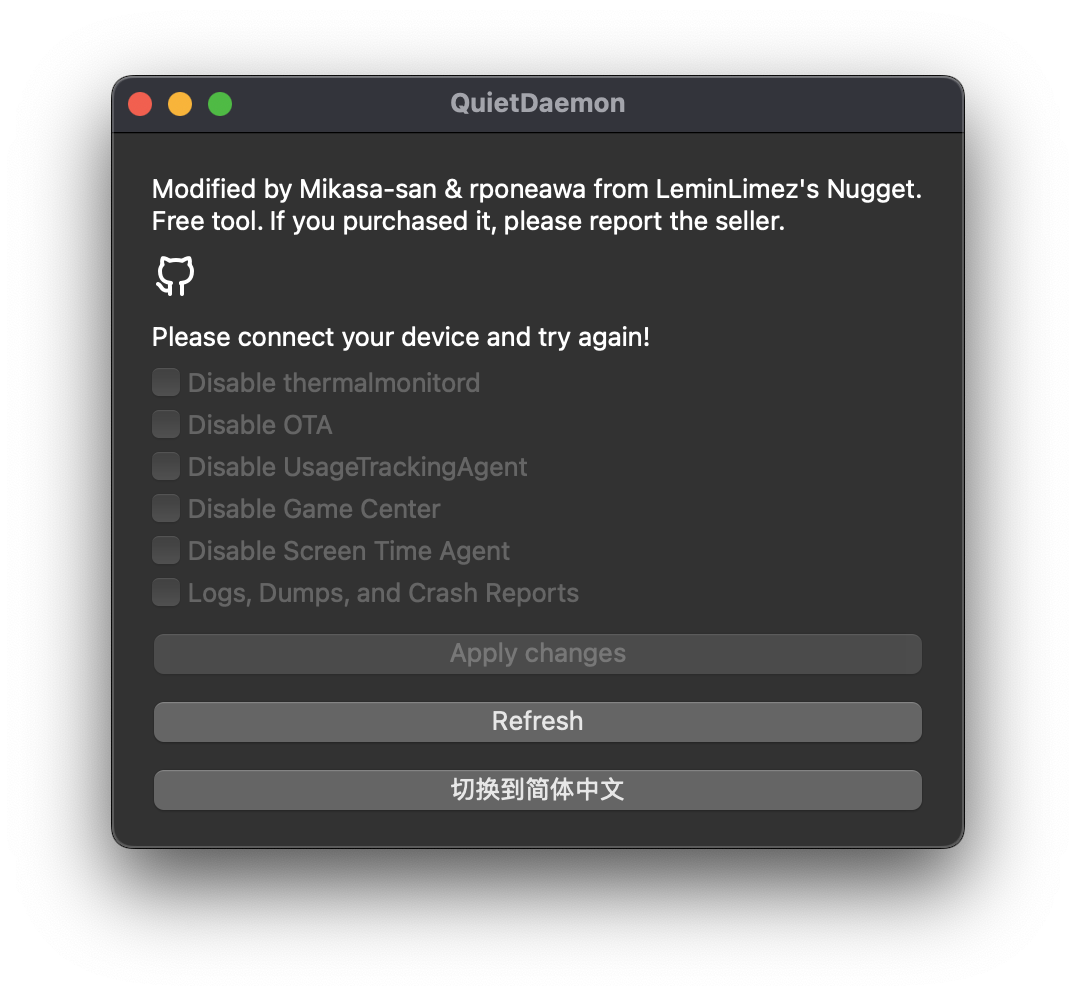
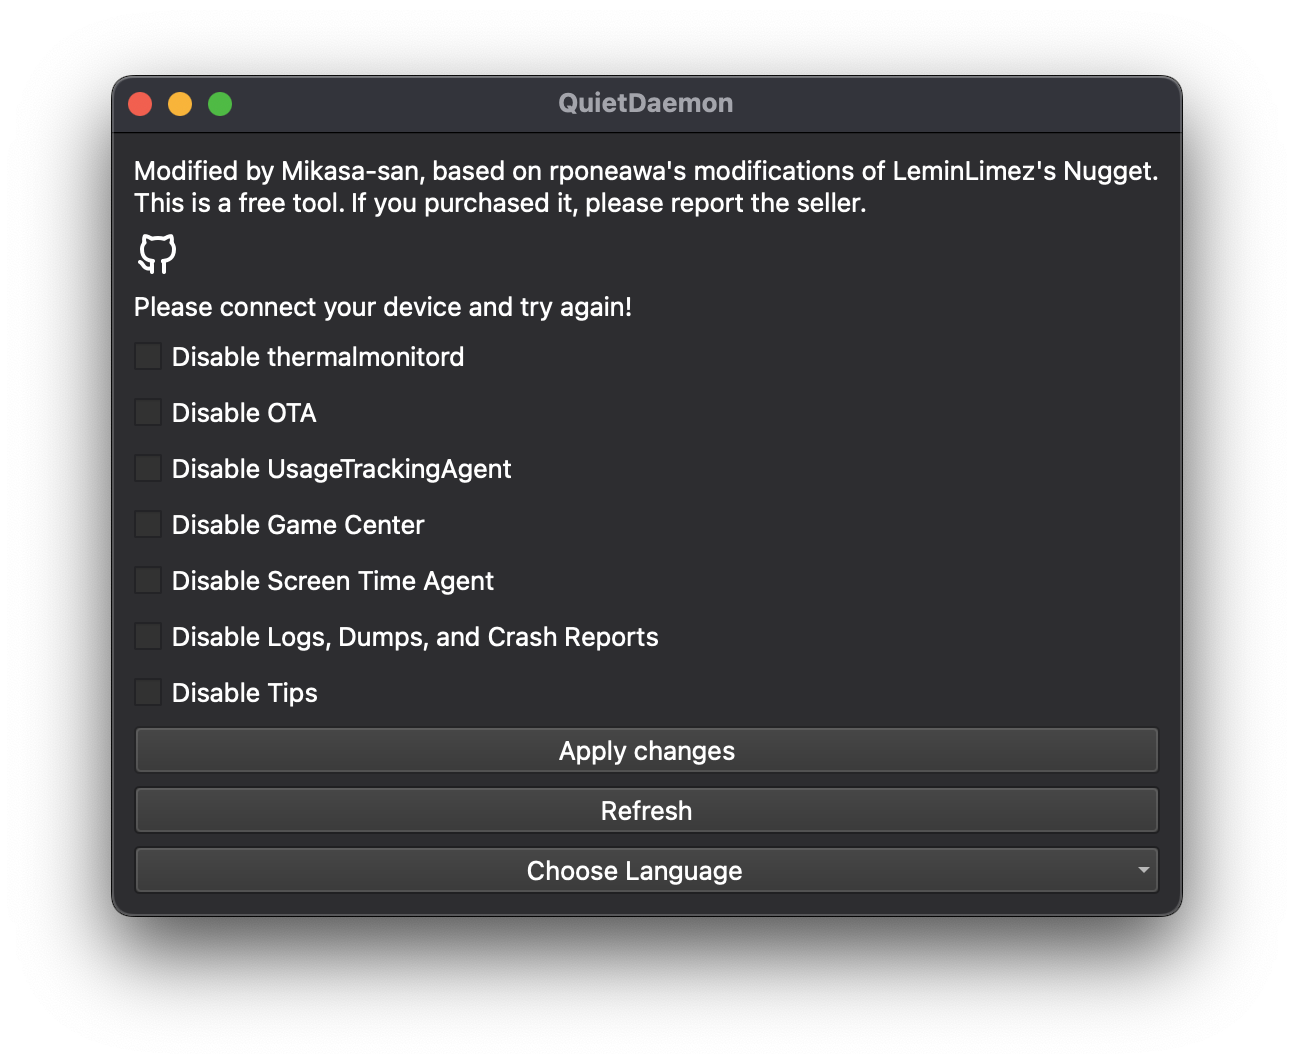
Update 1.0.1

Changed region(s): [[0.0613, 0.0622, 0.9507, 0.9026]]

diff --git a/gui_app.py b/gui_app.py
@@ -5,20 +5,32 @@ import traceback
 from PyQt5 import QtWidgets, QtCore, QtGui
 from PyQt5.QtSvg import QSvgWidget
 from PyQt5.QtCore import QLocale
+from PyQt5.QtGui import QPalette, QColor
 from pymobiledevice3 import usbmux
+from PyQt5.QtWidgets import QApplication
 from pymobiledevice3.lockdown import create_using_usbmux
 
 import resources_rc
 from Sparserestore.restore import restore_files, FileToRestore
 from devicemanagement.constants import Device
 
+palette = QPalette()
+palette.setColor(QPalette.Window, QColor(45, 45, 48))
+palette.setColor(QPalette.WindowText, QColor(255, 255, 255))
+
 class App(QtWidgets.QWidget):
     def __init__(self):
         super().__init__()
         self.device = None
 
+        # Detect system language
         locale = QLocale.system().name()
-        self.language = "zh" if locale.startswith("zh") else "jp" if locale.startswith("ja") else "en"
+        if locale.startswith("ja"):
+            self.language = "ja"
+        elif locale.startswith("zh"):
+            self.language = "zh"
+        else:
+            self.language = "en"
 
         self.thermalmonitord = False
         self.disable_ota = False
@@ -27,86 +39,114 @@ class App(QtWidgets.QWidget):
         self.disable_gamed = False
         self.disable_screentime = False
         self.disable_reportcrash = False
+        self.disable_tipsd = False
 
         self.language_pack = {
-            "en": {
-                "title": "QuietDaemon",
-                "modified_by": "Modified by Mikasa-san & rponeawa from LeminLimez's Nugget.\nFree tool. If you purchased it, please report the seller.",
-                "backup_warning": "Please back up your device before using!",
-                "connect_prompt": "Please connect your device and try again!",
-                "connected": "Connected to",
-                "ios_version": "iOS",
-                "apply_changes": "Applying changes to disabled.plist...",
-                "applying_changes": "Applying changes...",
-                "success": "Changes applied successfully!",
-                "error": "An error occurred while applying changes to disabled.plist:",
-                "error_connecting": "Error connecting to device",
-                "goodbye": "Goodbye!",
-                "input_prompt": "Enter a number: ",
-                "menu_options": [
-                    "Disable thermalmonitord",
-                    "Disable OTA",
-                    "Disable UsageTrackingAgent",
-                    "Disable Game Center",
-                    "Disable Screen Time Agent",
-                    "Logs, Dumps, and Crash Reports",
-                    "Apply changes",
-                    "Refresh",
-                    "切换到简体中文"
-                ]
-            },
-            "zh": {
-                "title": "温控禁用工具",
-                "modified_by": "由 Mikasa-san 和 rponeawa 基于 LeminLimez 的 Nugget 修改。\n免费工具，若您是购买而来，请举报卖家。",
-                "backup_warning": "使用前请备份您的设备！",
-                "connect_prompt": "请连接设备并重试！",
-                "connected": "已连接到",
-                "ios_version": "iOS",
-                "apply_changes": "正在应用更改到 disabled.plist...",
-                "applying_changes": "正在应用修改...",
-                "success": "更改已成功应用！",
-                "error": "应用更改时发生错误：",
-                "error_connecting": "连接设备时发生错误",
-                "goodbye": "再见！",
-                "input_prompt": "请输入选项: ",
-                "menu_options": [
-                    "禁用温控",
-                    "禁用系统更新",
-                    "禁用使用情况日志",
-                    "禁用游戏守护进程",
-                    "禁用屏幕时间",
-                    "日志、转储和崩溃报告",
-                    "应用更改",
-                    "刷新",
-                    "日本語に切り替え"
-                ]
-            },
-            "jp": {
-                "title": "QuietDaemon",
-                "modified_by": "Mikasa-san と rponeawa によって LeminLimez の Nugget から修正されました。\n無料ツールです。購入した場合は、販売者に報告してください。",
-                "backup_warning": "使用する前にデバイスをバックアップしてください！",
-                "connect_prompt": "デバイスを接続して再試行してください！",
-                "connected": "接続先",
-                "ios_version": "iOS",
-                "apply_changes": "disabled.plist に変更を適用しています...",
-                "applying_changes": "変更を適用中...",
-                "success": "変更が正常に適用されました！",
-                "error": "disabled.plist への変更の適用中にエラーが発生しました：",
-                "error_connecting": "デバイスへの接続中にエラーが発生しました",
-                "goodbye": "さようなら！",
-                "input_prompt": "番号を入力してください：",
-                "menu_options": [
-                "thermalmonitord を無効にする",
-                "OTA を無効にする",
-                "UsageTrackingAgent を無効にする",
-                "Game Center を無効にする",
-                "Screen Time Agent を無効にする",
-                "ログ、ダンプ、およびクラッシュレポート",
-                "変更を適用する",
-                "更新する",
-                "Switch to English"
-                ]
-            }
+                "en": {
+                        "title": "QuietDaemon",
+                        "modified_by": "Modified by Mikasa-san, based on rponeawa's modifications of LeminLimez's Nugget.\nThis is a free tool. If you purchased it, please report the seller.",
+                        "backup_warning": "Please back up your device before using!",
+                        "connect_prompt": "Please connect your device and try again!",
+                        "connected": "Connected to",
+                        "ios_version": "iOS",
+                        "apply_changes": "Applying changes to disabled.plist...",
+                        "applying_changes": "Applying changes...",
+                        "success": "Changes applied successfully!",
+                        "error": "An error occurred while applying changes to disabled.plist:",
+                        "error_connecting": "Error connecting to device",
+                        "goodbye": "Goodbye!",
+                        "menu_options": [
+                                "Disable thermalmonitord",
+                                "Disable OTA",
+                                "Disable UsageTrackingAgent",
+                                "Disable Game Center",
+                                "Disable Screen Time Agent",
+                                "Disable Logs, Dumps, and Crash Reports",
+                                "Disable Tips",
+                                "Apply changes",
+                                "Refresh",
+                                "Choose Language"
+                        ],
+                        "menu_notes": [
+                                "Disables temperature monitoring daemon to reduce system checks.",
+                                "Stops over-the-air updates to prevent auto-downloads.",
+                                "Disables usage tracking for improved privacy.",
+                                "Turns off Game Center background services.",
+                                "Disables Screen Time monitoring features.",
+                                "Stops logs, dumps, and crash reports collection.",
+                                "Disables the Tips service and notifications."
+                        ]
+                },
+                "zh": {
+                        "title": "温控禁用工具",
+                        "modified_by": "由 Mikasa-san 基于 rponeawa 对 LeminLimez 的 Nugget 进行修改。\n这是一个免费工具。若您是购买而来，请举报卖家。",
+                        "backup_warning": "使用前请备份您的设备！",
+                        "connect_prompt": "请连接设备并重试！",
+                        "connected": "已连接到",
+                        "ios_version": "iOS",
+                        "apply_changes": "正在应用更改到 disabled.plist...",
+                        "applying_changes": "正在应用修改...",
+                        "success": "更改已成功应用！",
+                        "error": "应用更改时发生错误：",
+                        "error_connecting": "连接设备时发生错误",
+                        "goodbye": "再见！",
+                        "menu_options": [
+                                "禁用温控",
+                                "禁用系统更新",
+                                "禁用使用情况日志",
+                                "禁用游戏守护进程",
+                                "禁用屏幕时间",
+                                "禁用日志、转储和崩溃报告",
+                                "禁用小贴士",
+                                "应用更改",
+                                "刷新",
+                                "选择语言"
+                        ],
+                        "menu_notes": [
+                                "禁用温度监控服务，减少系统检查。",
+                                "停止系统更新，防止自动下载。",
+                                "禁用使用情况追踪，增强隐私保护。",
+                                "关闭游戏中心后台服务。",
+                                "禁用屏幕时间监控功能。",
+                                "停止日志、转储和崩溃报告收集。",
+                                "禁用提示服务和通知。"
+                        ]
+                },
+                "ja": {
+                        "title": "QuietDaemon",
+                        "modified_by": "Mikasa-san が rponeawa の LeminLimez の Nugget 修正に基づき、さらに変更を加えました。\nこのツールは無料です。購入した場合は、販売者を報告してください。",
+                        "backup_warning": "使用する前にデバイスをバックアップしてください！",
+                        "connect_prompt": "デバイスを接続して再試行してください！",
+                        "connected": "接続先",
+                        "ios_version": "iOS",
+                        "apply_changes": "disabled.plist に変更を適用しています...",
+                        "applying_changes": "変更を適用中...",
+                        "success": "変更が正常に適用されました！",
+                        "error": "disabled.plist への変更の適用中にエラーが発生しました：",
+                        "error_connecting": "デバイスへの接続中にエラーが発生しました",
+                        "goodbye": "さようなら！",
+                        "menu_options": [
+                                "thermalmonitord を無効にする",
+                                "OTA を無効にする",
+                                "UsageTrackingAgent を無効にする",
+                                "Game Center を無効にする",
+                                "Screen Time Agent を無効にする",
+                                "ログ、ダンプ、クラッシュレポートを無効にする",
+                                "ヒントを無効にする",
+                                "変更を適用する",
+                                "更新する",
+                                "言語を選択してください"
+                        ],
+                        "menu_notes": [
+                                "システムチェックを減らすために温度モニタリングを無効化します。",
+                                "自動ダウンロードを防ぐためにOTA更新を停止します。",
+                                "プライバシー向上のために使用状況追跡を無効化します。",
+                                "Game Centerのバックグラウンドサービスをオフにします。",
+                                "スクリーンタイムのモニタリング機能を無効化します。",
+                                "ログ、ダンプ、クラッシュレポートの収集を停止します。",
+                                "ヒントサービスと通知を無効化します。"
+                        ]
+                }
         }
 
         self.init_ui()
@@ -145,34 +185,51 @@ class App(QtWidgets.QWidget):
         self.layout.addWidget(self.device_info)
 
         self.thermalmonitord_checkbox = QtWidgets.QCheckBox(self.language_pack[self.language]["menu_options"][0])
+        self.thermalmonitord_checkbox.setToolTip(self.language_pack[self.language]["menu_notes"][0])
         self.layout.addWidget(self.thermalmonitord_checkbox)
 
         self.disable_ota_checkbox = QtWidgets.QCheckBox(self.language_pack[self.language]["menu_options"][1])
+        self.disable_ota_checkbox.setToolTip(self.language_pack[self.language]["menu_notes"][1])
         self.layout.addWidget(self.disable_ota_checkbox)
 
         self.disable_usage_tracking_checkbox = QtWidgets.QCheckBox(self.language_pack[self.language]["menu_options"][2])
+        self.disable_usage_tracking_checkbox.setToolTip(self.language_pack[self.language]["menu_notes"][2])
         self.layout.addWidget(self.disable_usage_tracking_checkbox)
 
         self.disable_gamed_checkbox = QtWidgets.QCheckBox(self.language_pack[self.language]["menu_options"][3])
+        self.disable_gamed_checkbox.setToolTip(self.language_pack[self.language]["menu_notes"][3])
         self.layout.addWidget(self.disable_gamed_checkbox)
 
         self.disable_screentime_checkbox = QtWidgets.QCheckBox(self.language_pack[self.language]["menu_options"][4])
+        self.disable_screentime_checkbox.setToolTip(self.language_pack[self.language]["menu_notes"][4])
         self.layout.addWidget(self.disable_screentime_checkbox)
 
         self.disable_reportcrash_checkbox = QtWidgets.QCheckBox(self.language_pack[self.language]["menu_options"][5])
+        self.disable_reportcrash_checkbox.setToolTip(self.language_pack[self.language]["menu_notes"][5])
         self.layout.addWidget(self.disable_reportcrash_checkbox)
 
-        self.apply_button = QtWidgets.QPushButton(self.language_pack[self.language]["menu_options"][6])
+        self.disable_tipsd_checkbox = QtWidgets.QCheckBox(self.language_pack[self.language]["menu_options"][6])
+        self.disable_tipsd_checkbox.setToolTip(self.language_pack[self.language]["menu_notes"][6])
+        self.layout.addWidget(self.disable_tipsd_checkbox)
+
+        self.apply_button = QtWidgets.QPushButton(self.language_pack[self.language]["menu_options"][7])
+        self.apply_button.setStyleSheet("color: white")
         self.apply_button.clicked.connect(self.apply_changes)
         self.layout.addWidget(self.apply_button)
 
-        self.refresh_button = QtWidgets.QPushButton(self.language_pack[self.language]["menu_options"][7])
+        self.refresh_button = QtWidgets.QPushButton(self.language_pack[self.language]["menu_options"][8])
+        self.refresh_button.setStyleSheet("color: white")
         self.refresh_button.clicked.connect(self.get_device_info)
         self.layout.addWidget(self.refresh_button)
 
-        self.switch_language_button = QtWidgets.QPushButton(self.language_pack[self.language]["menu_options"][8])
-        self.switch_language_button.clicked.connect(self.switch_language)
-        self.layout.addWidget(self.switch_language_button)
+        self.language_menu_button = QtWidgets.QPushButton(self.language_pack[self.language]["menu_options"][9])
+        self.language_menu_button.setStyleSheet("text-align: center; color: white;") 
+        self.language_menu = QtWidgets.QMenu()
+        self.language_menu.addAction("English", lambda: self.change_language("en"))
+        self.language_menu.addAction("简体中文", lambda: self.change_language("zh"))
+        self.language_menu.addAction("日本語", lambda: self.change_language("ja"))
+        self.language_menu_button.setMenu(self.language_menu)
+        self.layout.addWidget(self.language_menu_button)
 
         self.setLayout(self.layout)
         self.show()
@@ -226,6 +283,7 @@ class App(QtWidgets.QWidget):
         self.disable_gamed_checkbox.setEnabled(not disable)
         self.disable_screentime_checkbox.setEnabled(not disable)
         self.disable_reportcrash_checkbox.setEnabled(not disable)
+        self.disable_tipsd_checkbox.setEnabled(not disable)
         self.apply_button.setEnabled(not disable)
 
     def update_device_info(self):
@@ -255,6 +313,7 @@ class App(QtWidgets.QWidget):
                 "com.apple.UsageTrackingAgent": self.disable_usage_tracking_checkbox.isChecked(),
                 "com.apple.gamed": self.disable_gamed_checkbox.isChecked(),
                 "com.apple.ScreenTimeAgent": self.disable_screentime_checkbox.isChecked(),
+                "com.apple.tipsd": self.disable_tipsd_checkbox.isChecked(),
         }
 
         report_crash_services = [
@@ -345,11 +404,14 @@ class App(QtWidgets.QWidget):
             QtWidgets.QMessageBox.critical(self, "Error", self.language_pack[self.language]["error"] + str(e))
             print(traceback.format_exc())
         finally:
-            self.apply_button.setText(self.language_pack[self.language]["menu_options"][6])
+            self.apply_button.setText(self.language_pack[self.language]["menu_options"][7])
             self.apply_button.setEnabled(True)
 
-    def switch_language(self):
-        self.language = "zh" if self.language == "en" else "jp" if self.language == "zh" else "en"
+    def change_language(self, lang_code):
+        self.language = lang_code
+        self.update_ui_texts()
+
+    def update_ui_texts(self):
         self.setWindowTitle(self.language_pack[self.language]["title"])
 
         # Update all UI texts based on the new language
@@ -361,22 +423,39 @@ class App(QtWidgets.QWidget):
             self.device_info.setText(self.language_pack[self.language]["connect_prompt"])
         
         menu_options = self.language_pack[self.language]["menu_options"]
-        
-        # Using a loop to set menu option texts
+        menu_notes = self.language_pack[self.language]["menu_notes"]
+        # Set checkbox labels and tooltips
         self.thermalmonitord_checkbox.setText(menu_options[0])
+        self.thermalmonitord_checkbox.setToolTip(menu_notes[0])
+    
         self.disable_ota_checkbox.setText(menu_options[1])
+        self.disable_ota_checkbox.setToolTip(menu_notes[1])
+    
         self.disable_usage_tracking_checkbox.setText(menu_options[2])
+        self.disable_usage_tracking_checkbox.setToolTip(menu_notes[2])
+    
         self.disable_gamed_checkbox.setText(menu_options[3])
+        self.disable_gamed_checkbox.setToolTip(menu_notes[3])
+    
         self.disable_screentime_checkbox.setText(menu_options[4])
+        self.disable_screentime_checkbox.setToolTip(menu_notes[4])
+    
         self.disable_reportcrash_checkbox.setText(menu_options[5])
+        self.disable_reportcrash_checkbox.setToolTip(menu_notes[5])
+
+        self.disable_tipsd_checkbox.setText(menu_options[6])
+        self.disable_tipsd_checkbox.setToolTip(menu_notes[6])
+
 
         # Set button texts
-        self.apply_button.setText(menu_options[6])
-        self.refresh_button.setText(menu_options[7])
-        self.switch_language_button.setText(menu_options[8])
+        self.apply_button.setText(menu_options[7])
+        self.refresh_button.setText(menu_options[8])
+        self.language_menu_button.setText(menu_options[9])
 
 if __name__ == "__main__":
     import sys
     app = QtWidgets.QApplication(sys.argv)
+    app.setStyle("Fusion")
+    app.setPalette(palette)
     window = App()
     sys.exit(app.exec_())

diff --git a/README.md b/README.md
@@ -7,11 +7,12 @@ A tool used to disable various daemons on iOS devices to prevent throttling, scr
 - **Disable UsageTrackingAgent**
 - **Disable Game Center**
 - **Disable Screen Time Agent**
-- **Logs, Dumps, and Crash Reports**
+- **Disable Logs, Dumps, and Crash Reports**
+- **Disable Tips**
 
 More daemons will be added in the future.
 
-Works on all versions below 18.1; note that thermal throttling may not be completely disabled on A15+ devices.
+Sparserestore works on all versions iOS 17.0-17.7 and iOS 18.0-18.1 beta 4. There is partial support for iOS 17.7.1 and iOS 18.1 beta 5+.
 
 <img src="overview.png" style="height:300px;">
 
